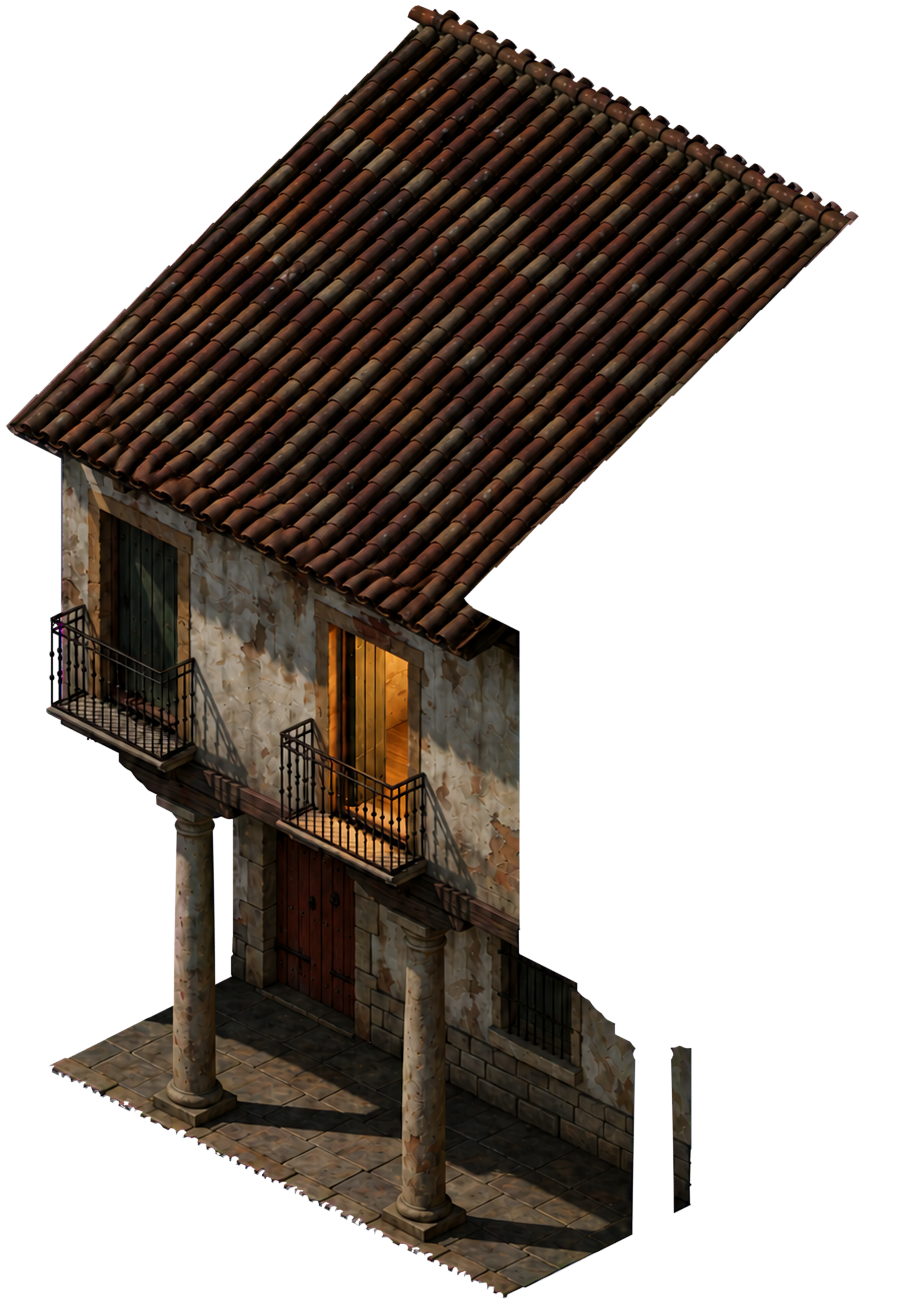
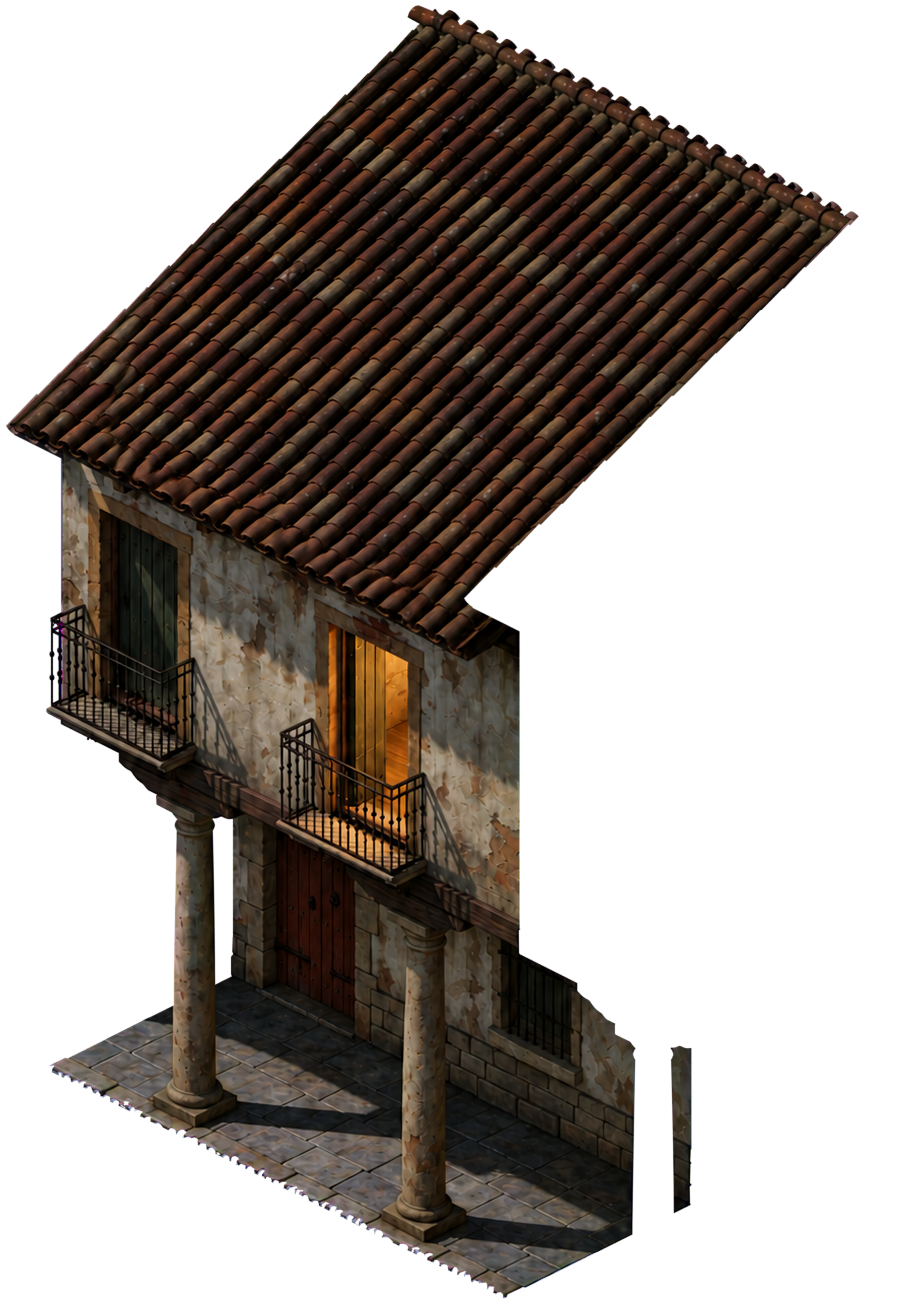
Suelo del soportal de la casa 2 igualado con el de sus vecinas
ChatGPT pintó amarillentas las losas del soportal de la casa 2 y se notaba el
corte con las casas 1 y 3. igualar_soportales.py mide en cada casa la razón entre
pintura y render en las losas (en el render todas son iguales) y aplica a la casa
que se desvía, solo en el suelo del soportal, la ganancia por canal que la lleva a
la media de sus referencias. Queda apuntado en herramientas/datos/soportales.json
y procesar_pieza.py lo rehace si se vuelve a meter la casa.

Claude-Session: https://claude.ai/code/session_01V3PygkCYmhoYvk1KoaBkFa

Changed region(s): [[0.0613, 0.7789, 0.4595, 0.9347], [0.4289, 0.8723, 0.6433, 0.997]]

diff --git a/herramientas/igualar_soportales.py b/herramientas/igualar_soportales.py
@@ -1,0 +1,111 @@
+#!/usr/bin/env python3
+"""Iguala el color del suelo de los soportales entre las casas pintadas.
+
+    python3 herramientas/igualar_soportales.py casa_2 --como casa_1 casa_3
+    python3 herramientas/igualar_soportales.py            # vuelve a aplicar lo apuntado
+
+Cada casa trae su tramo de soportal pintado aparte y ChatGPT no siempre lo pinta del
+mismo color: en la casa 2 las losas salieron amarillentas y se notaba el corte con
+las vecinas. En el render, en cambio, todas las losas son iguales (mismo material,
+misma luna), así que se mide en cada casa la razón entre la pintura y el render en
+las losas, y a la casa que se desvía se le aplica, solo en el suelo del soportal
+(losas y bordillo, sin las columnas), la ganancia por canal que lleva su razón a la
+media de las casas de referencia. El resto de la pintura no se toca.
+
+Lo apuntado queda en herramientas/datos/soportales.json, y procesar_pieza.py lo vuelve
+a aplicar cuando se mete otra vez una casa.
+"""
+import argparse
+import json
+from pathlib import Path
+
+import numpy as np
+from PIL import Image, ImageDraw
+from scipy.ndimage import binary_dilation, gaussian_filter
+
+from isometria import AX, AY, ZH
+
+RAIZ = Path(__file__).resolve().parent.parent
+DIR_FICHAS = RAIZ / "herramientas/datos/piezas"
+APUNTES = RAIZ / "herramientas/datos/soportales.json"
+# Medidas del soportal en coordenadas de la casa (las de kit_calle_mayor.py).
+ANCHO_CASA, FONDO = 6.0, -2.0
+LOSAS = (FONDO, 0.18)          # franja de losas que se mide (sin el bordillo)
+SUELO = (FONDO - 0.02, 0.44)   # franja que se corrige (losas y bordillo)
+
+
+def mascara(ident, franja):
+    """Píxeles de la pieza que son suelo del soportal en esa franja de y, sin las
+    columnas (sus recortes, ensanchados 4 px) ni lo que tapan las casas vecinas."""
+    ficha = json.loads((DIR_FICHAS / f"{ident}.json").read_text(encoding="utf-8"))
+    w, h = ficha["tamano"]
+    ax, ay = ficha["ancla"]
+
+    def p(x, y):
+        return (ax + (x - y) * AX, ay + (x + y) * AY)
+    y0, y1 = franja
+    lienzo = Image.new("L", (w, h), 0)
+    ImageDraw.Draw(lienzo).polygon([p(0, y0), p(ANCHO_CASA, y0), p(ANCHO_CASA, y1), p(0, y1)], fill=255)
+    cols = Image.new("L", (w, h), 0)
+    d = ImageDraw.Draw(cols)
+    for r in ficha["recortes"]:
+        d.polygon([tuple(q) for q in r["poligono"]], fill=255)
+    return (np.asarray(lienzo) > 0) & ~binary_dilation(np.asarray(cols) > 0, iterations=4)
+
+
+def razon(ident):
+    """Pintura / render en las losas, por canal."""
+    pint = np.asarray(Image.open(RAIZ / f"arte/piezas/{ident}.png").convert("RGBA")).astype(np.float64)
+    rend = np.asarray(Image.open(DIR_FICHAS / f"{ident}_render.png").convert("RGBA")).astype(np.float64)
+    sel = mascara(ident, LOSAS) & (pint[..., 3] > 250) & (rend[..., 3] > 250)
+    return pint[..., :3][sel].mean(0) / rend[..., :3][sel].mean(0)
+
+
+def igualar(ident, como):
+    objetivo = np.mean([razon(c) for c in como], axis=0)
+    propia = razon(ident)
+    ganancia = objetivo / propia
+    ruta = RAIZ / f"arte/piezas/{ident}.png"
+    img = np.asarray(Image.open(ruta).convert("RGBA")).astype(np.float32)
+    # Peso 1 en todo el suelo, que se apaga en unos 6 px por fuera (junto a las
+    # columnas y el zócalo) para que no quede un borde.
+    peso = np.clip(gaussian_filter(mascara(ident, SUELO).astype(np.float32), 3.0) * 2, 0, 1)[..., None]
+    img[..., :3] = np.clip(img[..., :3] * (1 + peso * (ganancia - 1)), 0, 255)
+    Image.fromarray(img.astype(np.uint8), "RGBA").save(ruta, optimize=True)
+    print(f"{ident}: suelo del soportal ×({ganancia[0]:.2f}, {ganancia[1]:.2f}, {ganancia[2]:.2f}) "
+          f"para parecerse a {', '.join(como)}")
+
+
+def apuntes():
+    return json.loads(APUNTES.read_text(encoding="utf-8")) if APUNTES.exists() else {}
+
+
+def reaplicar(ident):
+    """Lo llama procesar_pieza.py tras meter una casa: si estaba apuntada, se iguala."""
+    como = apuntes().get(ident)
+    if como:
+        igualar(ident, como)
+
+
+def main():
+    ap = argparse.ArgumentParser(description=__doc__, formatter_class=argparse.RawDescriptionHelpFormatter)
+    ap.add_argument("casa", nargs="?", help="casa que se corrige (sin nada: vuelve a aplicar lo apuntado)")
+    ap.add_argument("--como", nargs="+", help="casas de referencia")
+    a = ap.parse_args()
+    notas = apuntes()
+    if a.casa:
+        if not a.como:
+            ap.error("hace falta --como con las casas de referencia")
+        notas[a.casa] = a.como
+        APUNTES.write_text(json.dumps(notas, ensure_ascii=False, indent=1), encoding="utf-8")
+        igualar(a.casa, a.como)
+    else:
+        for ident, como in notas.items():
+            igualar(ident, como)
+    for ident in sorted(p.stem for p in DIR_FICHAS.glob("casa_*.json")):
+        r = razon(ident)
+        print(f"  {ident}: pintura/render en las losas {r[0]:.2f} {r[1]:.2f} {r[2]:.2f}")
+
+
+if __name__ == "__main__":
+    main()

diff --git a/herramientas/procesar_pieza.py b/herramientas/procesar_pieza.py
@@ -14,7 +14,9 @@ Qué hace:
      Esteban con la casa de la hornacina). Con --luz render se queda con la textura
      de la pintura y toma del render la luz y el color de conjunto, por si alguna
      pieza se desvía demasiado de la noche de las demás.
-  5. Guarda arte/piezas/<id>.png, copia la pintura original en
+  5. Si la casa está apuntada en herramientas/datos/soportales.json, iguala el color del
+     suelo de su soportal con el de sus vecinas (ver igualar_soportales.py).
+  6. Guarda arte/piezas/<id>.png, copia la pintura original en
      arte/entrada/piezas/<id>_pintada.png y deja una imagen de comprobación en
      pruebas/salida/piezas/<id>_comprobacion.png. El render sin pintar está siempre en
      herramientas/datos/piezas/<id>_render.png.
@@ -196,6 +198,9 @@ def main():
               "Pide a ChatGPT que no mueva ni cambie el contorno, o usa --forzar.")
         sys.exit(1)
     Image.fromarray(resultado).save(ruta_juego, optimize=True)
+    # Si el suelo del soportal de esta casa se igualó con el de sus vecinas, se rehace.
+    from igualar_soportales import reaplicar
+    reaplicar(a.pieza)
     # Se guarda la pintura original: si la pieza se vuelve a renderizar, basta con
     # pasar otra vez esta herramienta con ella.
     original = RAIZ / "arte/entrada/piezas" / f"{a.pieza}_pintada.png"

diff --git a/CLAUDE.md b/CLAUDE.md
@@ -29,6 +29,7 @@ xvfb-run -a -s "-screen 0 1920x1080x24" $G --path . --rendering-driver opengl3 \
 python3 herramientas/kit_calle_mayor.py [--solo casa_3] [--rapido] [--sin-render]   # modela y renderiza piezas y suelo (~1 h)
 python3 herramientas/generar_calle_mayor.py         # escena CalleMayor.tscn a partir de las fichas
 python3 herramientas/procesar_pieza.py casa_3 pintada.png   # mete una pieza repintada por ChatGPT
+python3 herramientas/igualar_soportales.py casa_2 --como casa_1 casa_3   # iguala el suelo de un soportal
 python3 herramientas/arte_provisional.py            # personajes y objetos provisionales
 python3 herramientas/plantillas_arte.py              # plantillas para ChatGPT (docs/arte)
 python3 herramientas/procesar_arte.py fondo|figura entrada.png salida.png
